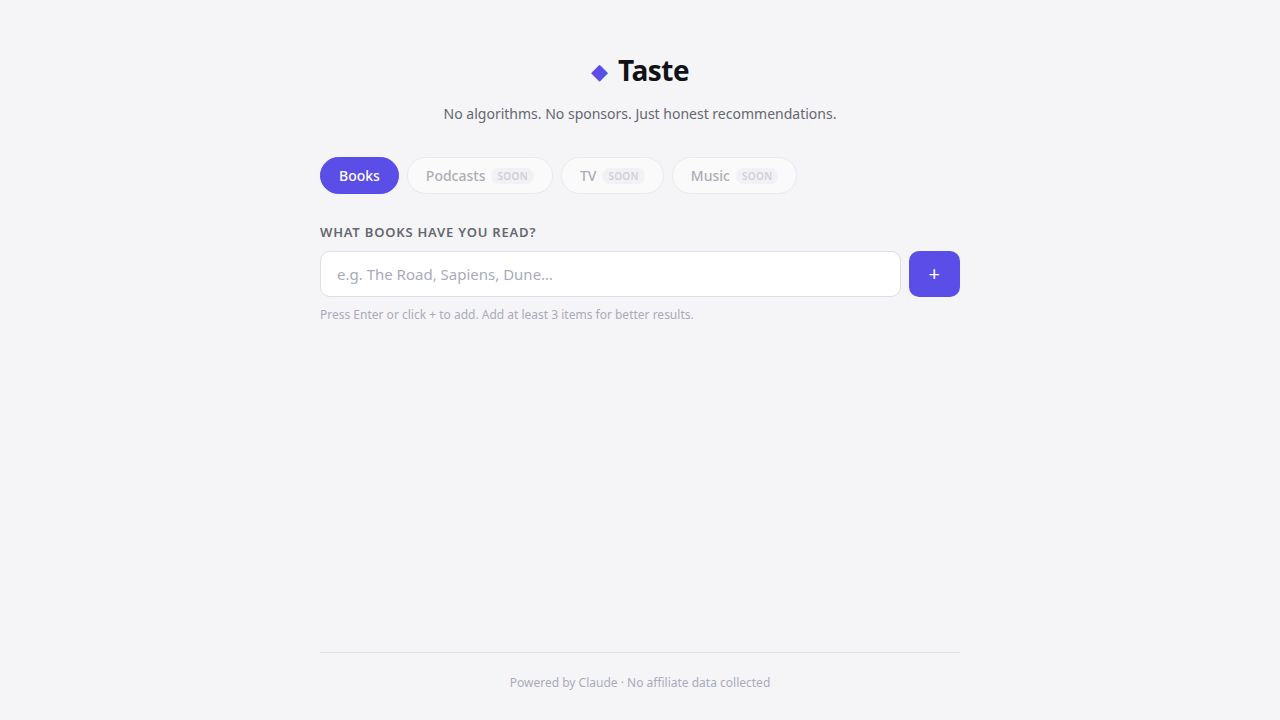
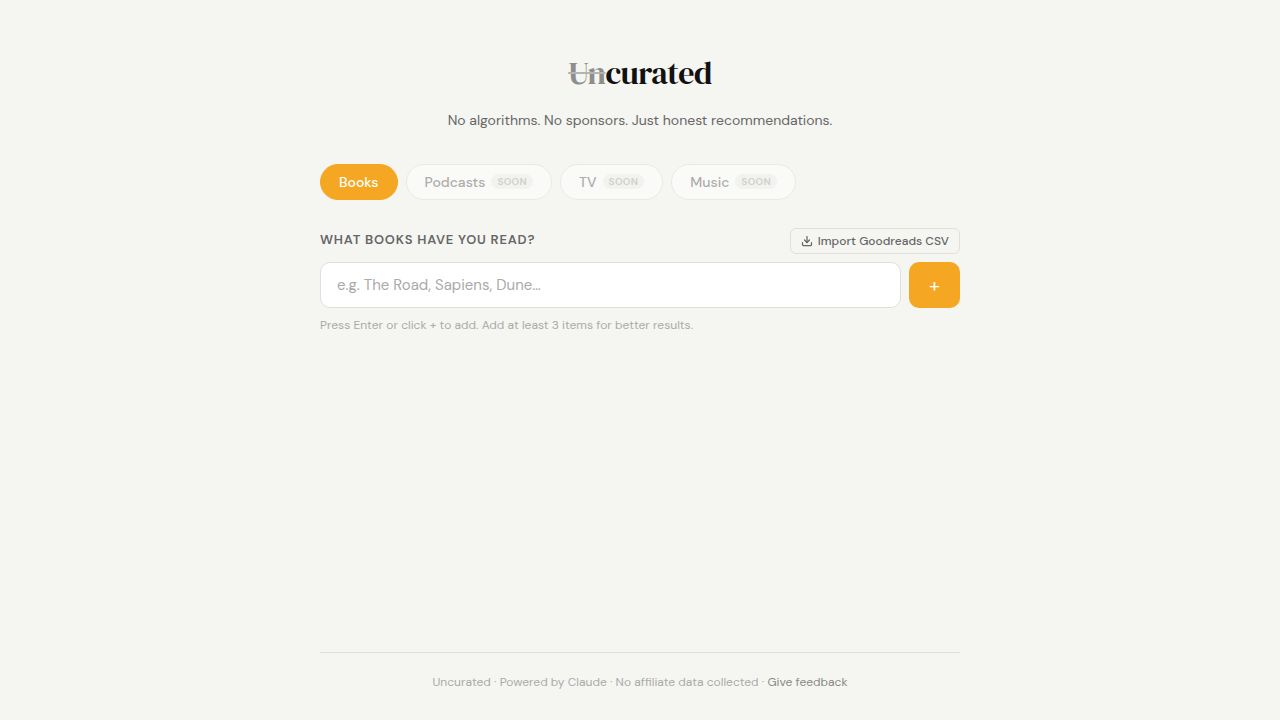
Fix errors preventing users from getting recommendations
Update authentication to use a consistent secret across server instances and prevent caching of token requests.

Replit-Commit-Author: Agent
Replit-Commit-Session-Id: 5022a8f5-4078-46e5-a48e-5fe4778fcf91
Replit-Commit-Checkpoint-Type: full_checkpoint
Replit-Commit-Event-Id: 5555fa02-d2ef-4313-b055-2f63922c2dfa
Replit-Commit-Screenshot-Url: https://storage.googleapis.com/screenshot-production-us-central1/851e3ee5-5d88-4e3e-9538-d9a6958abf06/5022a8f5-4078-46e5-a48e-5fe4778fcf91/rKBQWfQ
Replit-Helium-Checkpoint-Created: true

diff --git a/artifacts/api-server/src/lib/callerAuth.ts b/artifacts/api-server/src/lib/callerAuth.ts
@@ -1,8 +1,11 @@
 import { createHmac, randomBytes, timingSafeEqual } from "crypto";
 import { type RequestHandler } from "express";
 
-const SECRET =
-  process.env["CALLER_AUTH_SECRET"] ?? randomBytes(32).toString("hex");
+const SECRET = (() => {
+  const s = process.env["SESSION_SECRET"];
+  if (!s) throw new Error("SESSION_SECRET environment variable is not set.");
+  return s;
+})();
 
 const SESSION_COOKIE = "uncurated_sid";
 const SESSION_MAX_AGE_MS = 24 * 60 * 60 * 1000;

diff --git a/artifacts/api-server/src/routes/health.ts b/artifacts/api-server/src/routes/health.ts
@@ -9,6 +9,9 @@ router.get("/healthz", (_req, res) => {
   res.json(data);
 });
 
-router.get("/token", issueSession);
+router.get("/token", (req, res, next) => {
+  res.set("Cache-Control", "no-store");
+  next();
+}, issueSession);
 
 export default router;